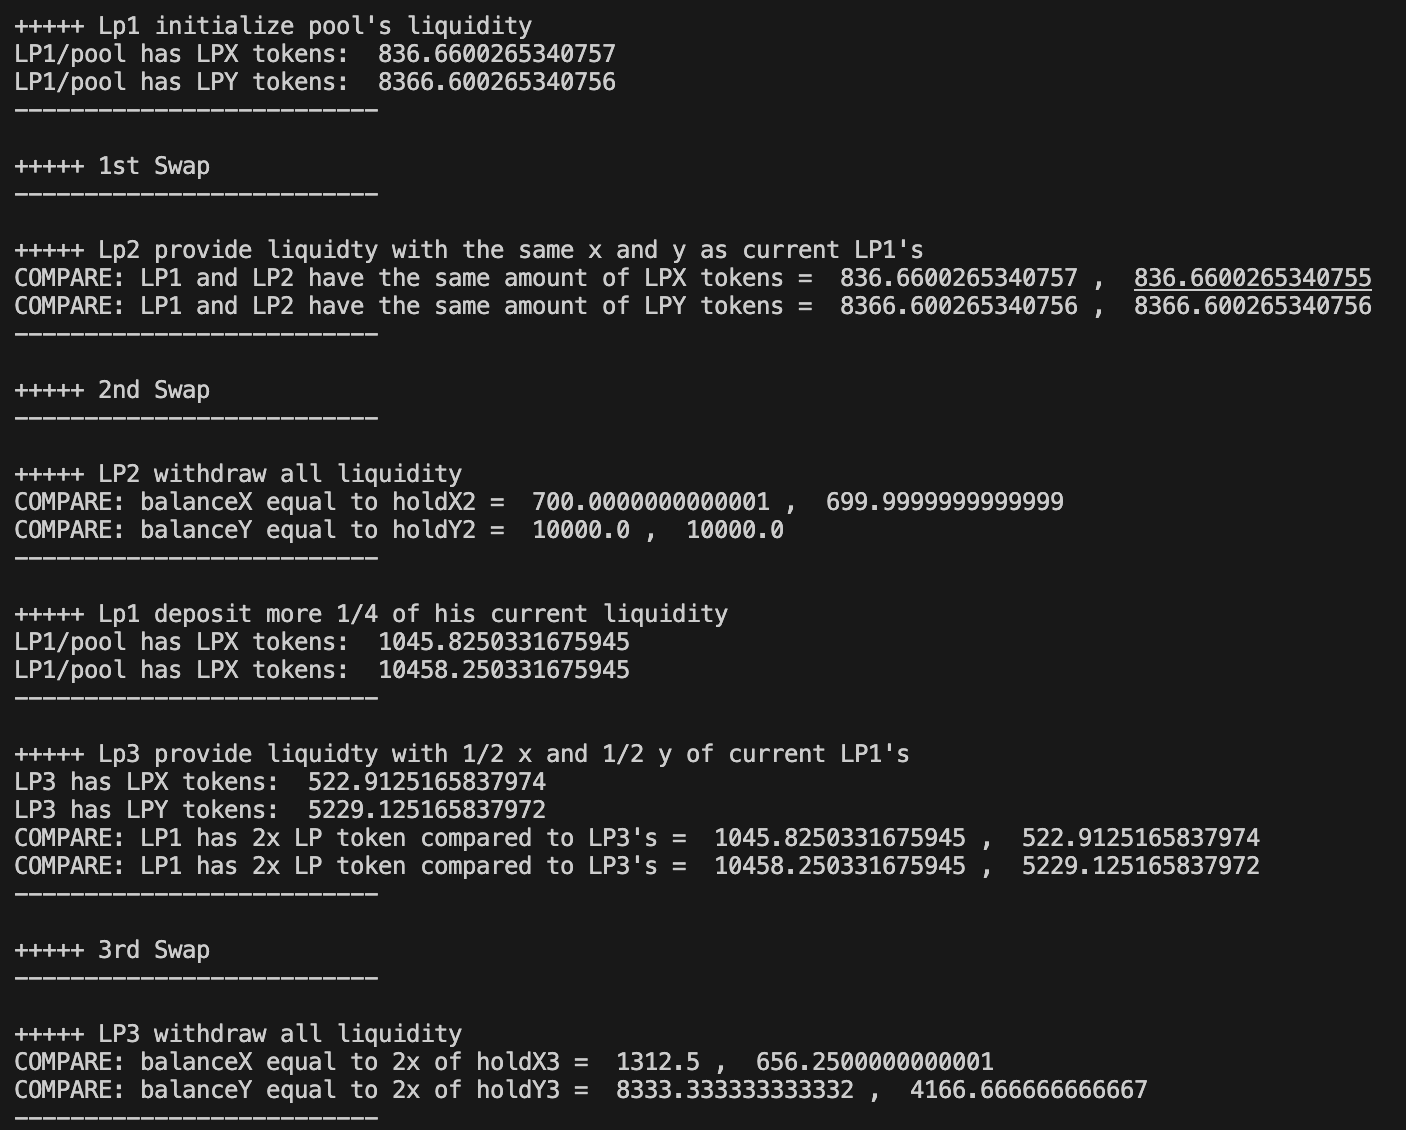
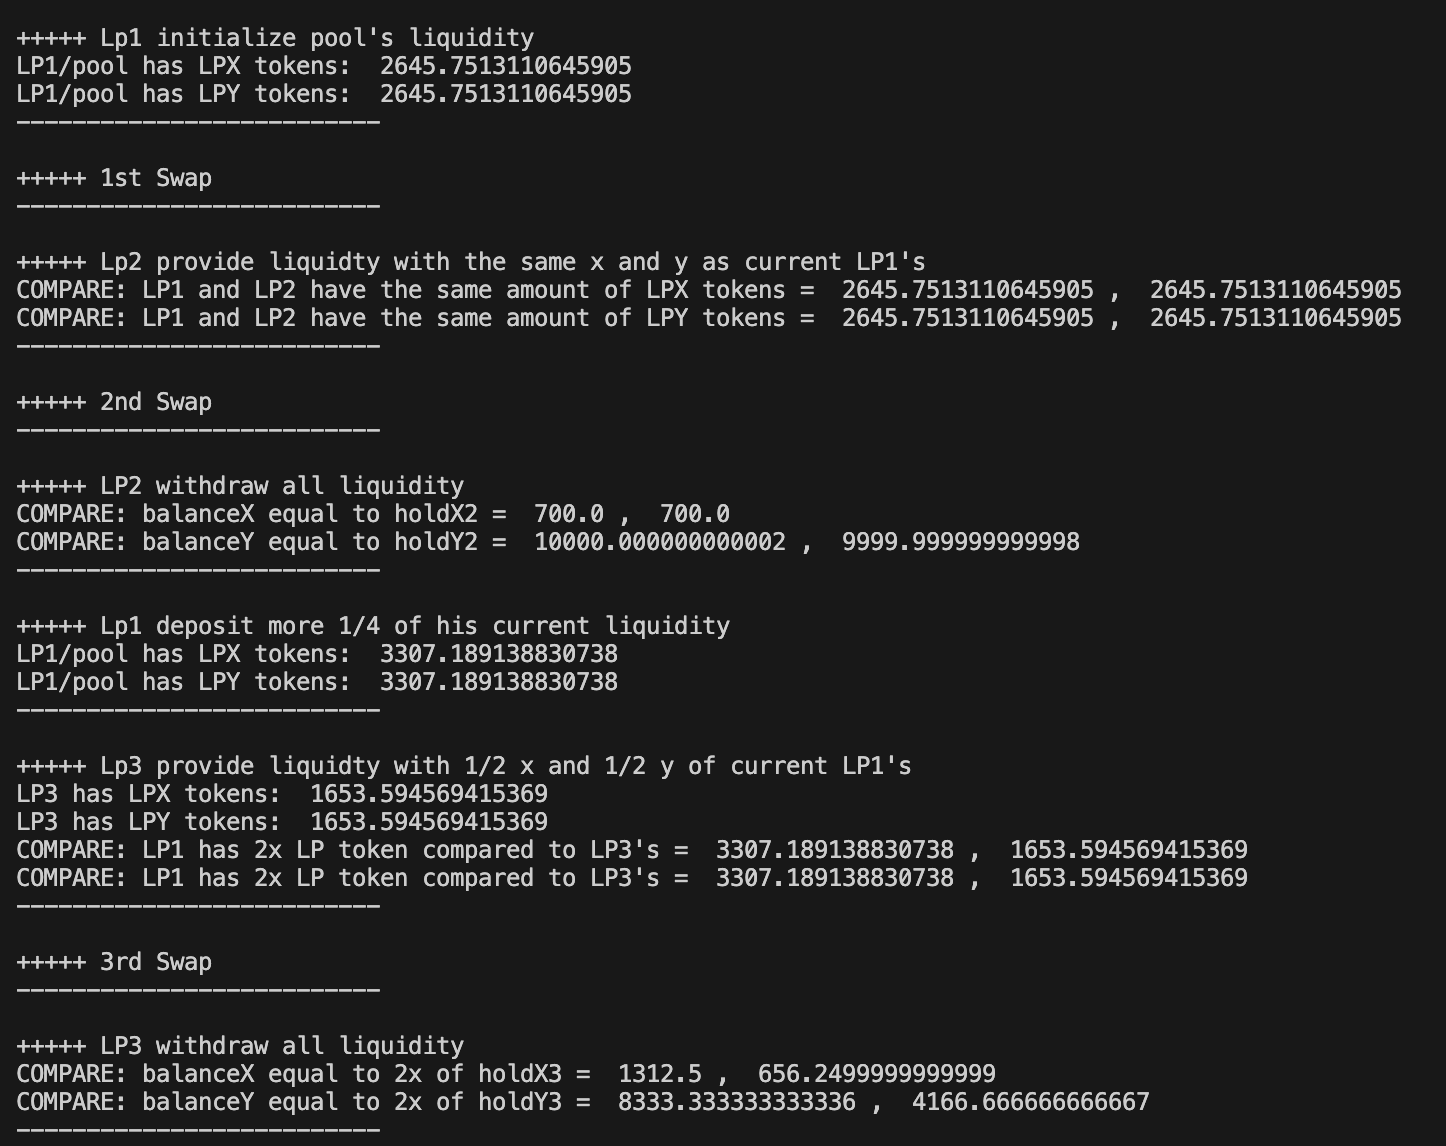
typo fixes & math simplification
-fix logging typo in tLpDPAMM
-simplify math in lpDPAMM
-new DPAMM result image

diff --git a/src/lpDPAMM.py b/src/lpDPAMM.py
@@ -4,9 +4,13 @@ def deposit(amountX, amountY, priceX):
     mintedLpX=0
     mintedLpY=0
     if (amountX > 0):       
-        mintedLpX = (amountX*priceX)/math.sqrt(priceX)
-    if (amountX > 0):       
-        mintedLpY = (amountY/priceX)/math.sqrt(1/priceX)
+        # mintedLpX = (amountX*priceX)/math.sqrt(priceX)
+        mintedLpX = amountX*math.sqrt(priceX)
+        # print(mintedLpX)
+    if (amountY > 0):       
+        # mintedLpY = (amountY/priceX)/math.sqrt(1/priceX)
+        mintedLpY = amountY*math.sqrt(1/priceX)
+        # print(mintedLpY)
     
     return mintedLpX,mintedLpY
 
@@ -18,3 +22,5 @@ def withdraw(LpXAmount, LpYAmount, priceX):
     if (LpYAmount > 0):
         amountY = (LpYAmount*(math.sqrt(1/priceX)))*priceX
     return amountX, amountY
+
+# deposit(700,10000, 10000/700)

diff --git a/test/tLpDPAMM.py b/test/tLpDPAMM.py
@@ -50,7 +50,7 @@ def testLpDPAMM():
     global holdY3
 
     #Lp1 deposit + initiate the price to be as x=700 and y=1000 as in CPAMM
-    priceX = 1000/700 # y/x in CPAMM
+    priceX = 10000/700 # y/x in CPAMM
     LpX1, LpY1 = deposit(holdX1,holdY1, priceX)
     totalLpX += LpX1
     totalLpY += LpY1
@@ -126,7 +126,7 @@ def testLpDPAMM():
     print()
     print("+++++ Lp1 deposit more 1/4 of his current liquidity")
     print("LP1/pool has LPX tokens: ", LpX1)
-    print("LP1/pool has LPX tokens: ", LpY1)
+    print("LP1/pool has LPY tokens: ", LpY1)
     print("--------------------------")
 
     #Lp3 deposit liquidity, 50% of LP1's value
